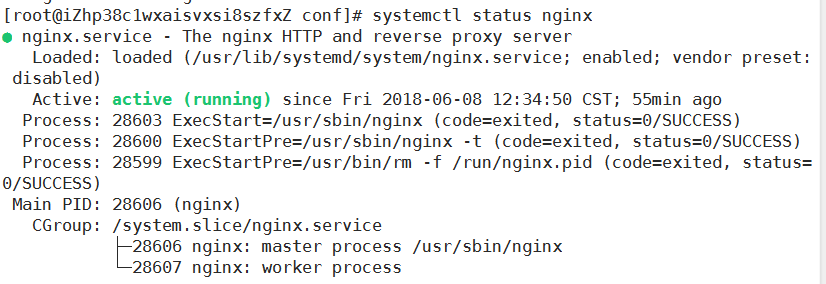
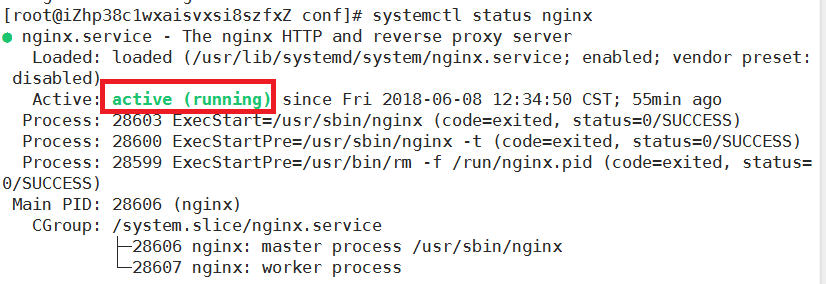
lastone

Changed region(s): [[0.1211, 0.2535, 0.3329, 0.4225]]

diff --git a/source/_posts/nginx-sentos部署.md b/source/_posts/nginx-sentos部署.md
@@ -1,10 +1,10 @@
-titlle: 使用centos部署django项目
-
-data: 2018-06-10
+title:  使用centos部署django项目
+date: 2018-06-10 14:23:58
+tags:
 
 ---
 
-#### nginx + uWSGI + django的处理流程
+**nginx + uWSGI + django的处理流程:**
 
 - 首先nginx 是对外的服务接口，外部浏览器通过url访问nginx,
 - nginx 接收到浏览器发送过来的http请求，将包进行解析，分析url，如果是静态文件请求就直接访问用户给nginx配置的静态文件目录，直接返回用户请求的静态文件，
@@ -16,8 +16,7 @@ data: 2018-06-10
   - 安全问题，程序不能直接被浏览器访问到，而是通过nginx,nginx只开放某个接口，uwsgi本身是内网接口，这样运维人员在nginx上加上安全性的限制，可以达到保护程序的作用。
   - 负载均衡问题，一个uwsgi很可能不够用，即使开了多个work也是不行，毕竟一台机器的cpu和内存都是有限的，有了nginx做代理，一个nginx可以代理多台uwsgi完成uwsgi的负载均衡。
   - 静态文件问题，用django或是uwsgi这种东西来负责静态文件的处理是很浪费的行为，而且他们本身对文件的处理也不如nginx好，所以整个静态文件的处理都直接由nginx完成，静态文件的访问完全不去经过uwsgi以及其后面的东西。
-
-uWSGI是一个Web服务器，它实现了WSGI协议、uwsgi、http等协议。Nginx中HttpUwsgiModule的作用是与uWSGI服务器进行交换。
+- uWSGI是一个Web服务器，它实现了WSGI协议、uwsgi、http等协议。Nginx中HttpUwsgiModule的作用是与uWSGI服务器进行交换。
 
 ### 1. 安装MariaDB
 
@@ -75,7 +74,7 @@ mysql -u root -p
 
 ### 3. 开启远程连接
 
-在mysql数据库中的user表中可以看到默认是只能本地连接的，所有可以添加一个新的用户，该用户可以远程访问
+- 在mysql数据库中的user表中可以看到默认是只能本地连接的，所有可以添加一个新的用户，该用户可以远程访问
 
 #### 3-1. 创建用户
 
@@ -119,7 +118,7 @@ mysql -u root -p
 
 ### 4. 安装python3.6
 
-在centos中(**Linux系统**)，系统默认只提供python2.7的版本，但是项目我们使用的python3.6的版本
+- 在centos中(**Linux系统**)，系统默认只提供python2.7的版本，但是项目我们使用的python3.6的版本
 
 所以我们自己安装python3
 
@@ -209,7 +208,7 @@ Django框架仅在开发模式下提供静态文件服务。当我开启DEBUG模
 
 #### 6-1. 测试环境中部署方式
 
-在测试环境中一般都直接使用python manage.py runserver的方式去运行项目。其中就涉及到DEBUG=False的修改，静态目录的修改等，具体修改如下：
+- 在测试环境中一般都直接使用python manage.py runserver的方式去运行项目。其中就涉及到DEBUG=False的修改，静态目录的修改等，具体修改如下：
 
 ```
 修改settings.py配置文件中的DEBUG=False模式，修改ALLOEWD_HOST=['*']
@@ -235,7 +234,7 @@ urlpatterns = [
 
 #### 6-2. 正式环境中部署方式
 
-正式环境中部署为nginx+uwsgi来部署django项目
+- 正式环境中部署为nginx+uwsgi来部署django项目
 
 ##### 6-2-1. 安装nginx
 
@@ -314,7 +313,7 @@ ln -s /usr/local/python3/bin/uwsgi /usr/bin/uwsgi
 
 ![图](https://github.com/Violet-maple/Violet-maple.github.io/blob/hexo/source/_posts/img/django_centos_project_mulu.png?raw=true)
 
-其中：
+**其中：**
 
 conf是配置文件，用于存放项目的nginx.conf文件，uwsgi.ini文件
 
@@ -366,7 +365,7 @@ systemctl restart nginx
 
 如果自定义的axfnginx.conf文件没有错误的话，查看nginx的运行状态会有如下的结果：
 
-![图](img/django_centos_nginx_status.png)
+![图](https://github.com/Violet-maple/Violet-maple.github.io/blob/hexo/source/_posts/img/django_centos_nginx_status.png?raw=true)
 
 #### 6-4-2. 配置uwsgi文件
 
